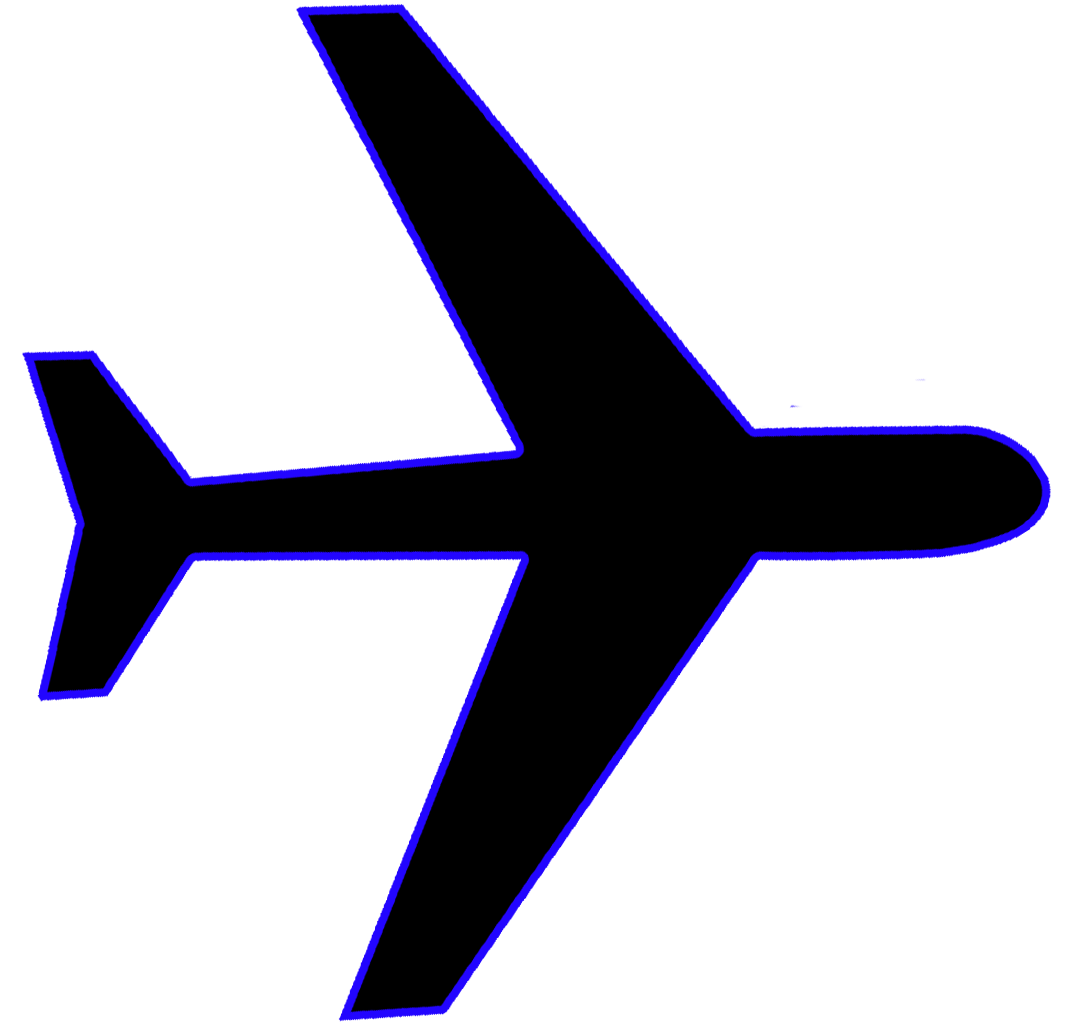
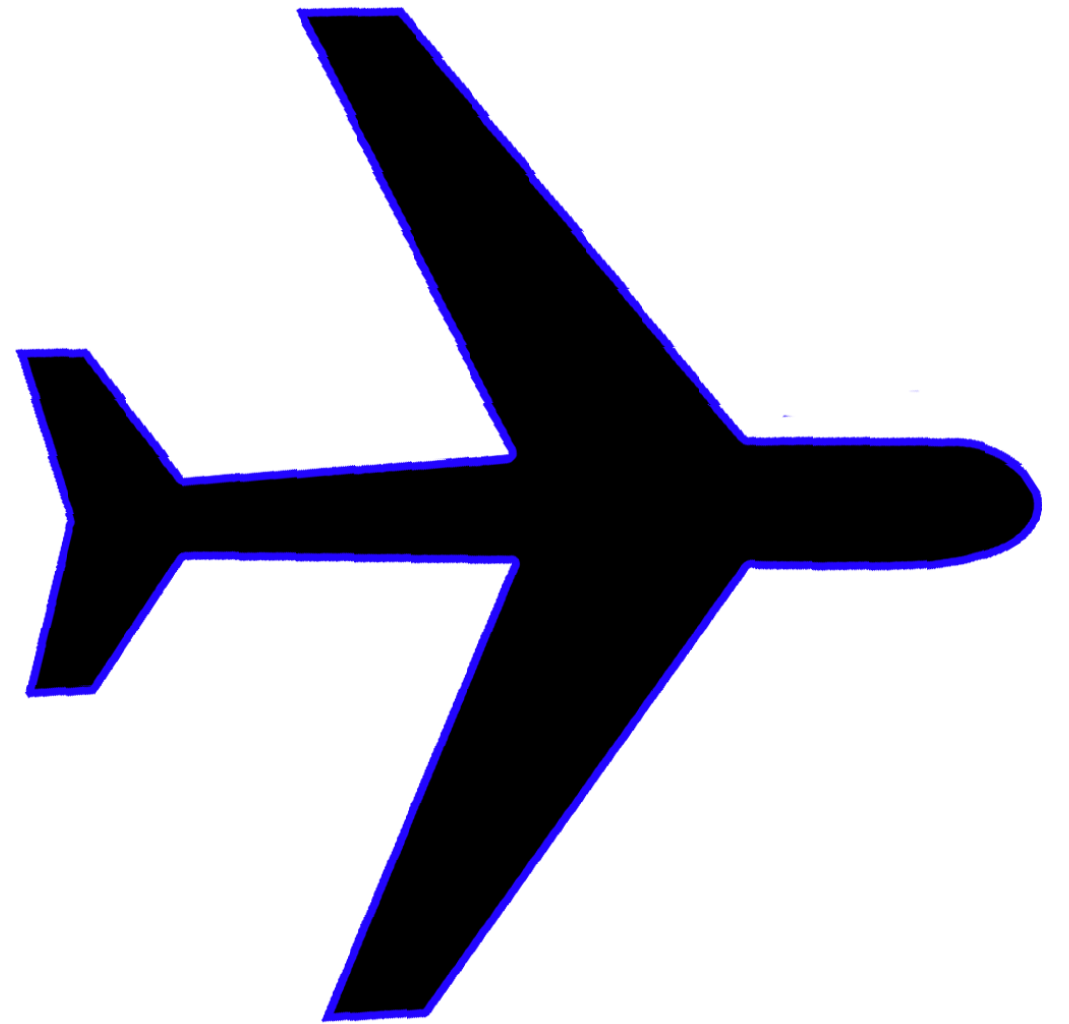
Adjusted Rerouting - flights are no longer modified, added DepartureLocation and DestinationLocation to airplane class - they are used to determine the route of the airplane (reroute changes these properties), fixed image drawing, added GlobalVariables static class - all bitmaps should be initialize

diff --git a/Airtraffic_Simulator/Airplane.cs b/Airtraffic_Simulator/Airplane.cs
@@ -21,6 +21,8 @@ namespace Airtraffic_Simulator
         public bool Selected { get; set; } //Checks if the airplane is selected
         public Rectangle CoverArea { get; set; }
         public string Type { get; set; }
+        private PointF DepartureLocation;
+        private PointF DestinationLocation;
         
         private int counterTicks = 0;
         public Airplane(string id, int capacity, double speed, double fuel, PointF currentLocation, string type)
@@ -30,8 +32,7 @@ namespace Airtraffic_Simulator
             this.Speed = speed;
             this.Fuel = fuel;
             this.CurrentLocation = currentLocation;
-            this.Image = new Bitmap(Airtraffic_Simulator.Properties.Resources.airplane_flying);
-            this.Image = new Bitmap(Image, 25, 25);
+            this.Image = GlobalVariables.AirplaneInFlight;
         }
         public void Update()
         {
@@ -80,10 +81,10 @@ namespace Airtraffic_Simulator
         {
             if (this.Flight != null)
             {
-                float x1 = this.Flight.DepartureAirport.Location.X;
-                float x2 = this.Flight.DestinationAirport.Location.X;
-                float y1 = this.Flight.DepartureAirport.Location.Y;
-                float y2 = this.Flight.DestinationAirport.Location.Y;
+                float x1 = this.DepartureLocation.X;
+                float x2 = this.DestinationLocation.X;
+                float y1 = this.DepartureLocation.Y;
+                float y2 = this.DestinationLocation.Y;
 
                 float xCurrent = this.CurrentLocation.X;
                 float yCurrent = this.CurrentLocation.Y;
@@ -133,8 +134,8 @@ namespace Airtraffic_Simulator
                 }
                 if (totaldistance < currentdistance + distancepassed)
                 {
-                    xNew = this.Flight.DestinationAirport.Location.X;
-                    yNew = this.Flight.DestinationAirport.Location.Y;
+                    xNew = this.DestinationLocation.X;
+                    yNew = this.DestinationLocation.Y;
                     this.Status = Status.LANDING;
                 }
                 this.CurrentLocation = new PointF(xNew, yNew);
@@ -146,17 +147,25 @@ namespace Airtraffic_Simulator
         public void AddFlight(Flight f)
         {
             this.Flight = f;
+            this.ChangeRoute(this.Flight.DepartureAirport.Location, this.Flight.DestinationAirport.Location);
+        }
 
-            float x1 = this.Flight.DepartureAirport.Location.X;
-            float x2 = this.Flight.DestinationAirport.Location.X;
-            float y1 = this.Flight.DepartureAirport.Location.Y;
-            float y2 = this.Flight.DestinationAirport.Location.Y;
-
-
+        public void ChangeRoute(PointF start,PointF end)
+        {
+            this.DepartureLocation = start;
+            this.DestinationLocation = end;
+            this.TransformImage();
+        }
+        private void TransformImage()
+        {
+            float x1 = this.DepartureLocation.X;
+            float x2 = this.DestinationLocation.X;
+            float y1 = this.DepartureLocation.Y;
+            float y2 = this.DestinationLocation.Y;
 
             float xDiff = x1 - x2;
             float yDiff = y1 - y2;
-           // float rotationAngle = (float)Math.Atan2(yDiff, xDiff) * (float)(240/ Math.PI);
+            // float rotationAngle = (float)Math.Atan2(yDiff, xDiff) * (float)(240/ Math.PI);
 
             float rotationAngle = (float)toDegree((float)Math.Atan2(yDiff, xDiff)) + 180;
             if (rotationAngle < 0)
@@ -183,7 +192,7 @@ namespace Airtraffic_Simulator
             gfx.InterpolationMode = InterpolationMode.HighQualityBicubic;
 
             //now draw our new image onto the graphics object
-            gfx.DrawImage(Image, new Point(0, 0));
+            gfx.DrawImage(GlobalVariables.AirplaneInFlight, new Point(0, 0));
 
             //dispose of our Graphics object
             gfx.Dispose();

diff --git a/Airtraffic_Simulator/Form1.cs b/Airtraffic_Simulator/Form1.cs
@@ -149,23 +149,22 @@ namespace Airtraffic_Simulator
         {
             if(selectedAirplane!=null)
             { 
-            selectedAirplane.ChangeFuel(Convert.ToInt32(nUDChangeFuel.Value));
-            selectedAirplane.ChangeSpeed(Convert.ToInt32(nUDChangeSpeed.Value));
-            string destination = tbChangeDestination.Text;
-            bool found = false;
-            foreach(Airport a in airNetwork.Airports)
-            {
-                if(a.Name==destination)
+                selectedAirplane.ChangeFuel(Convert.ToInt32(nUDChangeFuel.Value));
+                selectedAirplane.ChangeSpeed(Convert.ToInt32(nUDChangeSpeed.Value));
+                string destination = tbChangeDestination.Text;
+                bool found = false;
+                foreach(Airport a in airNetwork.Airports)
                 {
-                    selectedAirplane.Flight.ChangeDestination(a);
-                    selectedAirplane.UpdateMovement();
-                    found = true;
+                    if(a.Name.ToUpper()==destination.ToUpper())
+                    {
+                        selectedAirplane.ChangeRoute(selectedAirplane.CurrentLocation, a.Location);
+                        found = true;
+                    }
                 }
-            }
-            if(!found)
-            {
-                MessageBox.Show("No such airport was found. Please enter another one");
-            }
+                if(!found)
+                {
+                    MessageBox.Show("No such airport was found. Please enter another one");
+                }
             }
         }
     }

diff --git a/Airtraffic_Simulator/GlobalVariables.cs b/Airtraffic_Simulator/GlobalVariables.cs
@@ -1,0 +1,15 @@
+using System;
+using System.Collections.Generic;
+using System.Drawing;
+using System.Linq;
+using System.Text;
+using System.Threading.Tasks;
+
+namespace Airtraffic_Simulator
+{
+    //All images should be initialized here and classes should reference these objects.
+    public static class GlobalVariables
+    {
+       public static Bitmap AirplaneInFlight = new Bitmap(Airtraffic_Simulator.Properties.Resources.airplane_flying,25,25);
+    }
+}
